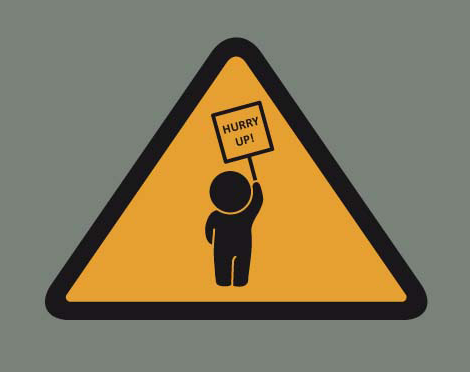
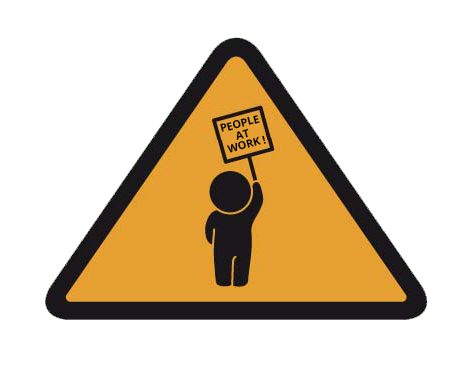
Mise en place d'un systeme de mise en maintenance

diff --git a/index.php b/index.php
@@ -41,40 +41,47 @@ if (isset($_GET['p']) && (!empty($_GET['p'])))
 }
 
 
+// Si maintenance => true
+$maintenance_mode = true;
+
+
 if (!isset($requestParams[0]) || empty($requestParams[0]))
 {
-    $requestParams = array('inscription', 'organisme');
+    if ($maintenance_mode)
+    {
+        $requestParams = array('erreur', 'maintenance');
+    }
+    else
+    {
+        $requestParams = array('inscription', 'organisme');
+    }
 }
 
 
-
-// Décommenter si en maintenance
-//$requestParams = array('erreur', 'maintenance'); 
-
-if ($requestParams[1] != 'maintenance')
+if ($requestParams[0] == 'admin')
 {
-
-    if ($requestParams[0] == 'admin')
-    {
-        if (!isset($requestParams[1]) || empty($requestParams[1]))
-        {
-            $requestParams[1] = 'login';
-        }
-    }
-
     if (!isset($requestParams[1]) || empty($requestParams[1]))
     {
-        if ($requestParams[0] == 'admin')
-        {
-            $requestParams[1] = 'login';
-        }
-        else
-        {
-            $requestParams = array('inscription', 'organisme'); 
-        }
+        $requestParams[1] = 'login';
     }
-
 }
+
+if (!isset($requestParams[1]) || empty($requestParams[1]))
+{
+    if ($requestParams[0] == 'admin')
+    {
+        $requestParams[1] = 'login';
+    }
+    else if ($maintenance_mode)
+    {
+        $requestParams = array('erreur', 'maintenance');
+    }
+    else
+    {
+        $requestParams = array('inscription', 'organisme'); 
+    }
+}
+
 
 
 

diff --git a/views/error/maintenance.php b/views/error/maintenance.php
@@ -12,7 +12,7 @@
 
             <div style="margin: 64px auto 32px auto; text-align: center">
                 
-                <h1 style="color: white;">Maintenance en cours</h1>
+                <h2 style="color: white;">Positionnement en maintenance</h2>
                 <img src="<?php echo WEBROOT; ?>media/images/en_attente.png" style="width: 470px; height: 372px; display: inline;" />
 
             </div>

diff --git a/views/templates/tpl_maintenance.php b/views/templates/tpl_maintenance.php
@@ -23,7 +23,7 @@
     <![endif]-->
 </head>
 
-<body style="background: none #7b827a;">
+<body style="background: none #009688;">
     
     <?php
         echo $template_content;
